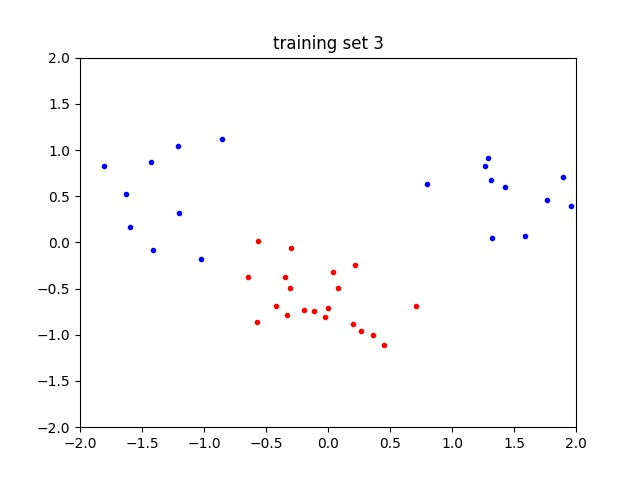
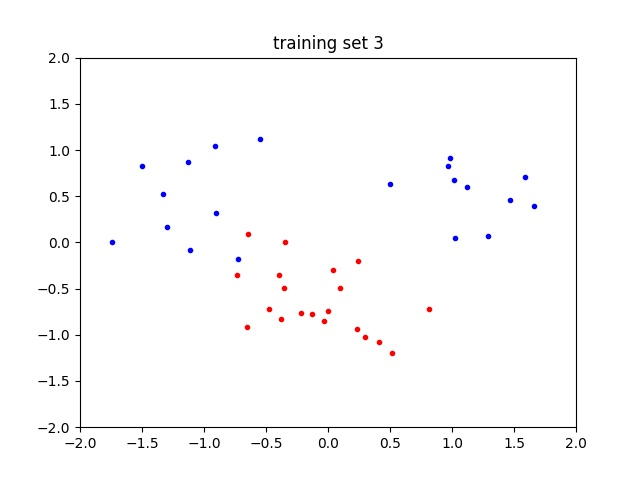
change plot of training set 2

diff --git a/Lab 2/Lab2/lab2.py b/Lab 2/Lab2/lab2.py
@@ -13,11 +13,11 @@ numpy.random.seed(100)
 
 # 2 clusters of class A (+1)
 classA = numpy.concatenate(
-    (numpy.random.randn(10, 2) * 0.2 + [1.5, 0.5],
-     numpy.random.randn(10, 2) * 0.2 + [-1.5, -0.5]))
+    (numpy.random.randn(10, 2) * 0.4 + [1.2, 0.5],
+     numpy.random.randn(10, 2) * 0.4 + [-1.2, 0.5]))
 
 # 1 cluster of class B (-1)
-classB = numpy.random.randn(20, 2) * 0.2 + [0.0, 0.0]
+classB = numpy.random.randn(20, 2) * 0.4 + [0.0, -0.5]
 
 # training set (data samples and labels)
 inputs = numpy.concatenate((classA, classB))
@@ -42,10 +42,10 @@ plt.plot([p[0] for p in classB],
 
 # configure
 plt.axis([-2, 2, -2, 2])
-plt.title('training set 4')
+plt.title('training set 3')
 
 # save and show plot
-plt.savefig('plots/training_set_4.jpg')
+plt.savefig('plots/training_set_3.jpg')
 # plt.show()
 
 
@@ -143,5 +143,5 @@ plt.axis([-2, 2, -2, 2])
 plt.title('SVM with ' + K.__name__.replace('_', ' '))
 
 # save and show plot
-plt.savefig('plots/linear_kernel_4.jpg')
+plt.savefig('plots/linear_kernel_3.jpg')
 # plt.show()
